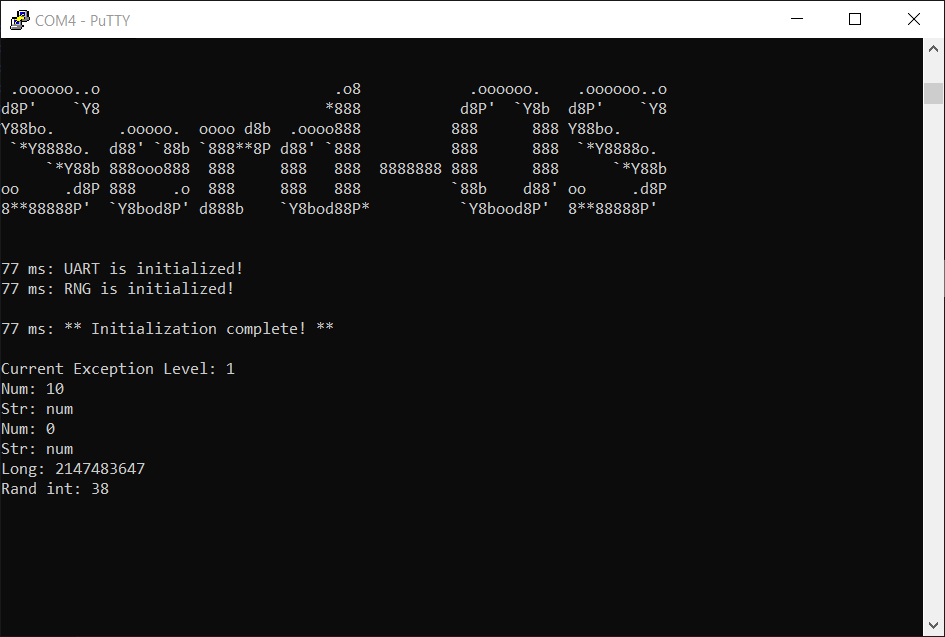
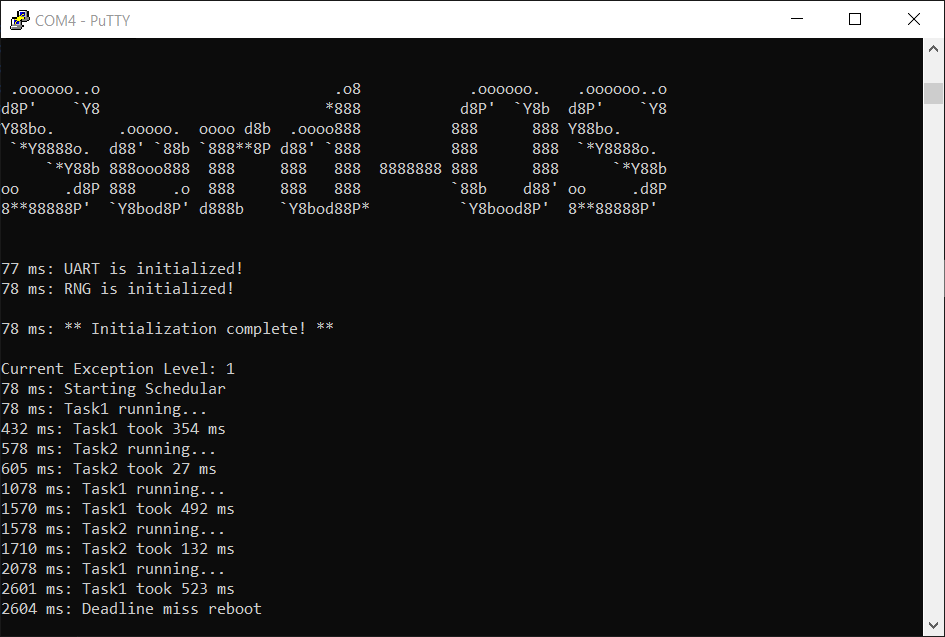
simple scheduler

Changed region(s): [[0.0, 0.5965, 0.2762, 0.9843], [0.0, 0.5071, 0.0307, 0.5369], [0.0, 0.4474, 0.0307, 0.4772]]

diff --git a/kernel.c b/kernel.c
@@ -6,6 +6,8 @@
 #include "rand.h"
 #include "uart.h"
 
+uint64_t get_system_time() { return (uint64_t)get_system_timer() / 1000; }
+
 void Serd_OS_main()
 {
     uart_init();
@@ -18,7 +20,7 @@ void Serd_OS_main()
     printk("\r\n%u ms: ** Initialization complete! **\r\n\r\n", (uint64_t)get_system_timer() / 1000);
 
     printk("Current Exception Level: %u\r\n", (uint64_t)get_el());
-    int num = 10;
+    /*int num = 10;
     printk("Num: %d\r\n", num);
     printk("Str: %s\r\n", "num");
     printk("Hex: %x\r\n", num);
@@ -31,7 +33,44 @@ void Serd_OS_main()
     printk("Str: %s\r\n", "num");
     printk("Long: %u\r\n", (uint64_t)2147483647L);
     printk("Rand int: %d\r\n", rand(0, 100));
+*/
+    printk("%d ms: Starting Schedular\r\n", get_system_time());
 
+    while (1)
+    {
+        uint64_t frameStart = get_system_time();
+
+        uint64_t task1_start = get_system_time();
+        printk("%d ms: Task1 running...\r\n", task1_start);
+        wait_msec(rand(0, 600));
+
+        printk("%d ms: Task1 took %d ms \r\n", get_system_time(), get_system_time() - task1_start);
+        if ((frameStart + 500) < get_system_time())
+        {
+            printk("%d ms: Deadline miss reboot\r\n", get_system_time());
+        }
+        while ((frameStart + 500) > get_system_time())
+        {
+            asm volatile("nop"); // Wait
+        }
+
+        uint64_t task2_start = get_system_time();
+
+        printk("%d ms: Task2 running...\r\n", task2_start);
+        wait_msec(rand(0, 200));
+
+        printk("%d ms: Task2 took %d ms \r\n", get_system_time(), get_system_time() - task2_start);
+        if ((frameStart + 1000) < get_system_time())
+        {
+            printk("%d ms: Deadline miss reboot\r\n", get_system_time());
+        }
+        while ((frameStart + 1000) > get_system_time())
+        {
+            asm volatile("nop"); // Wait
+        }
+    }
+
+    /*
     while (1)
     {
         char c = uart_readChar();
@@ -52,4 +91,5 @@ void Serd_OS_main()
             printk("\r\nReturn from exception\r\n");
         }
     }
+    */
 }
